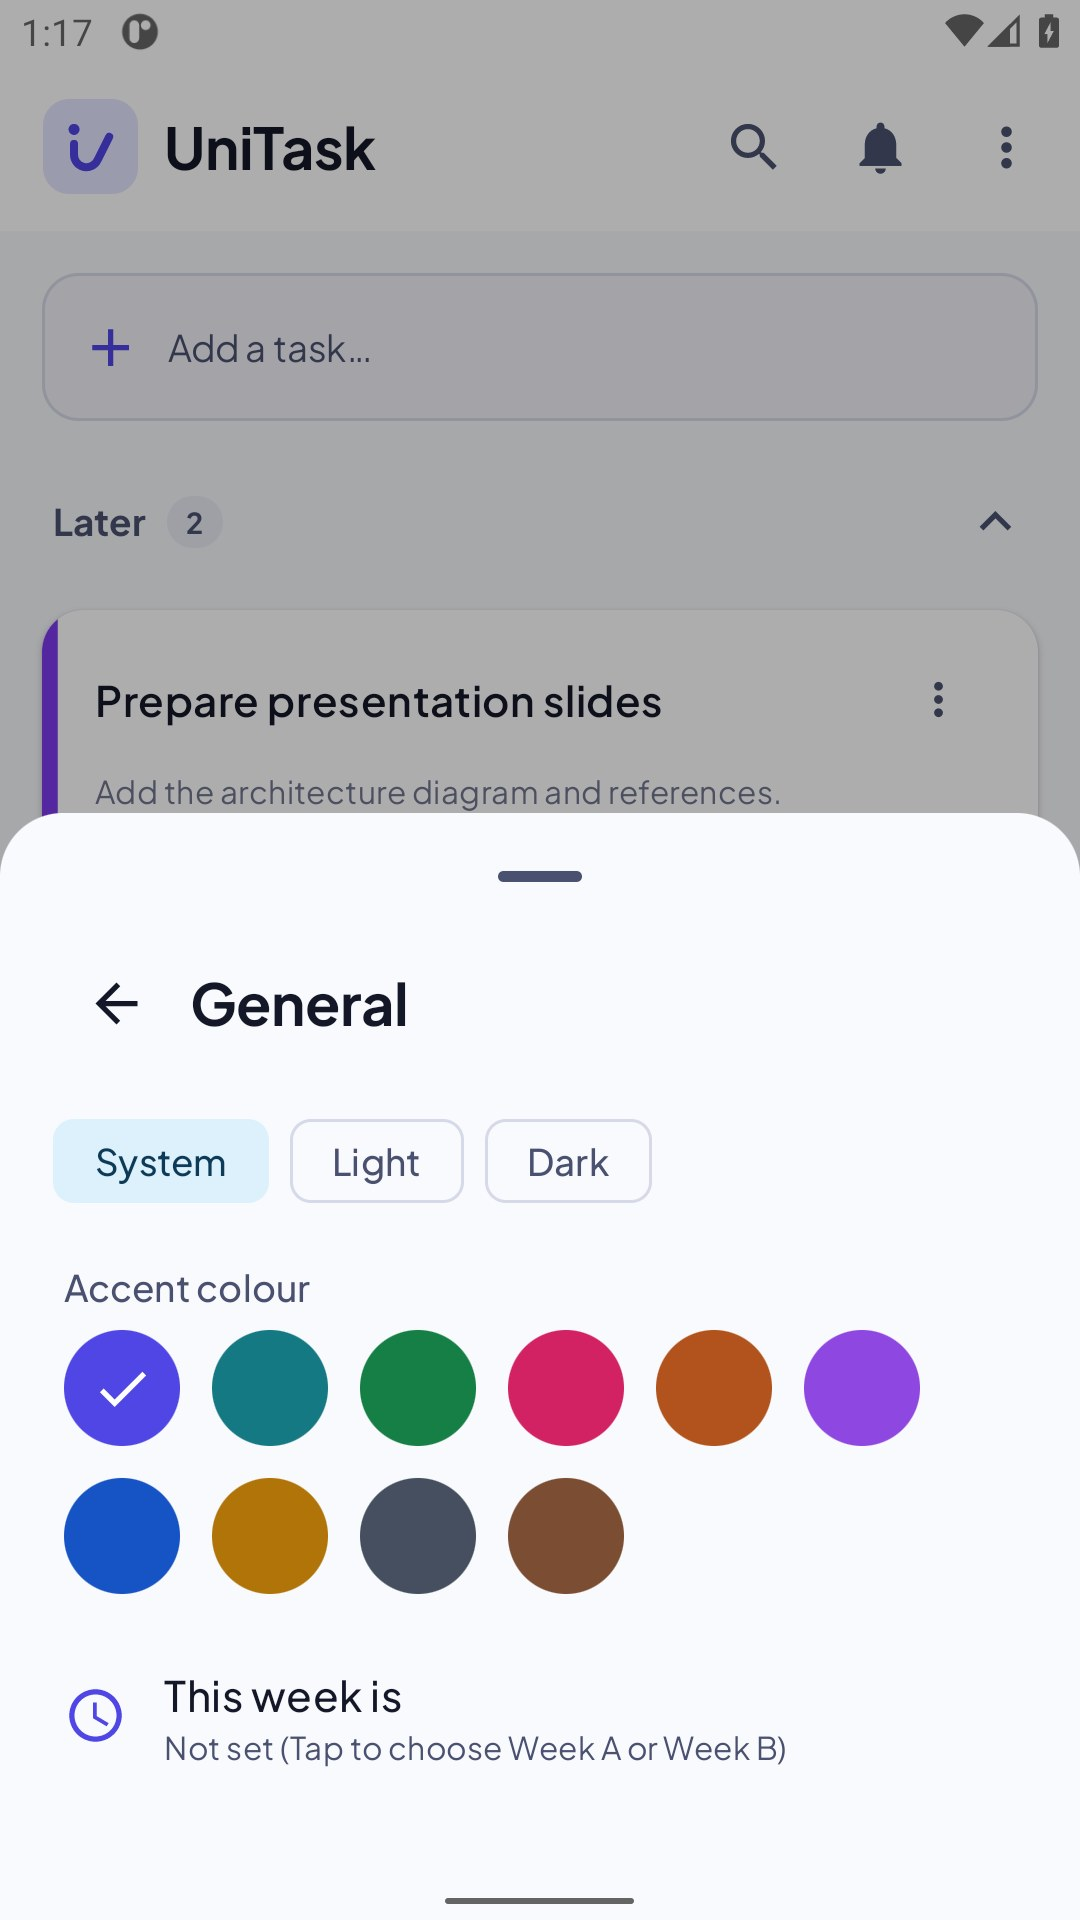
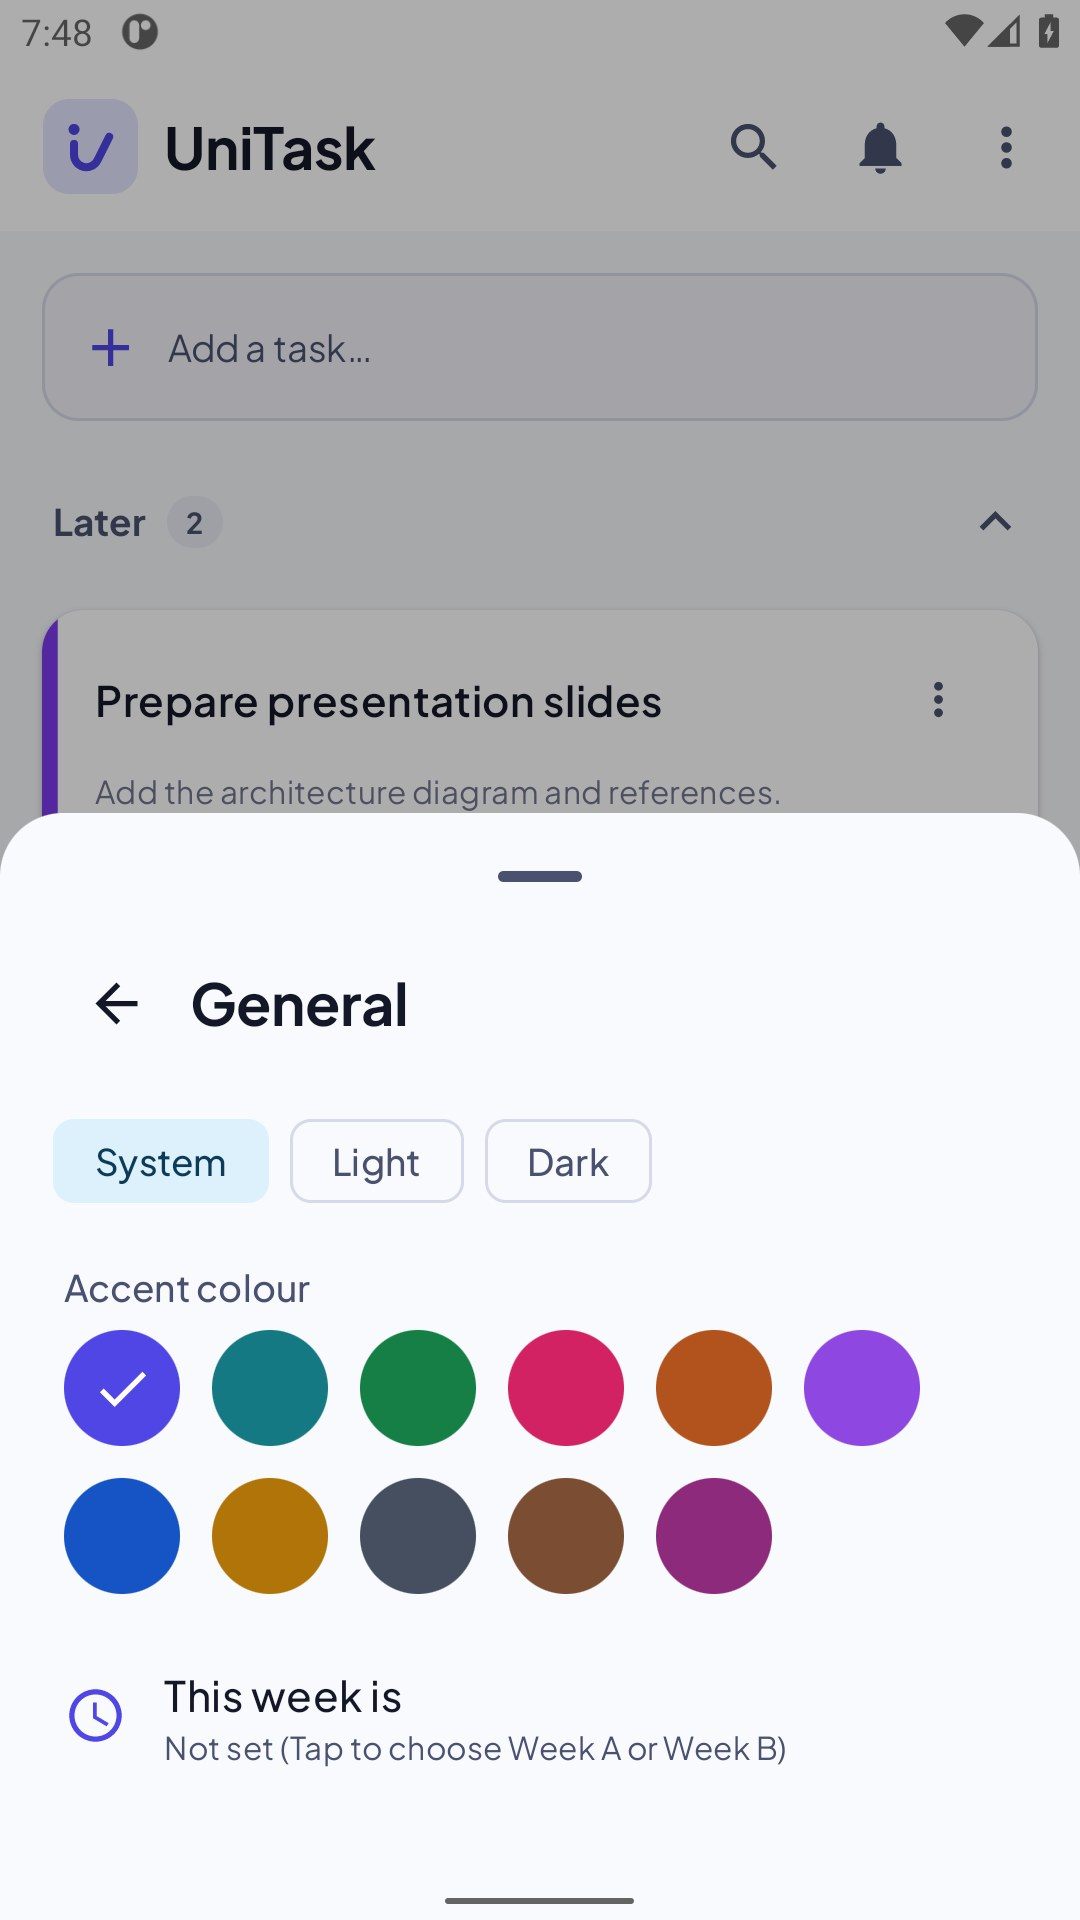
docs: refresh automated README screenshots

Changed region(s): [[0.6111, 0.75, 0.7333, 0.8438], [0.0306, 0.0, 0.0917, 0.0312]]

diff --git a/README.md b/README.md
@@ -139,16 +139,16 @@ Reminders, backup and account options, one section at a time.
 
 ### Themes
 
-UniTask follows the system theme or can be set to light or dark, with eleven accent colours chosen in Settings.
+UniTask follows the system theme or can be set to light or dark, with ten accent colours chosen in Settings.
 
 <table align="center">
   <tr>
     <td align="center" valign="top"><a href="docs/screenshots/theme_dark.jpg"><img src="docs/screenshots/theme_dark.jpg" width="220" alt="Dark theme" /></a><br/><sub><b>Dark theme</b><br/>Deadlines in dark mode</sub></td>
-    <td align="center" valign="top"><a href="docs/screenshots/theme_accent.jpg"><img src="docs/screenshots/theme_accent.jpg" width="220" alt="Accent colours" /></a><br/><sub><b>Accent colours</b><br/>Eleven accent colours, shown here in Rose</sub></td>
+    <td align="center" valign="top"><a href="docs/screenshots/theme_accent.jpg"><img src="docs/screenshots/theme_accent.jpg" width="220" alt="Accent colours" /></a><br/><sub><b>Accent colours</b><br/>Ten accent colours, shown here in Rose</sub></td>
   </tr>
 </table>
 
-<p align="center"><sub>Automatically captured from UniTask 4.7.0 using fictional demo data on an Android emulator.</sub></p>
+<p align="center"><sub>Automatically captured from UniTask 4.8.0 using fictional demo data on an Android emulator.</sub></p>
 
 Each screen is also available separately: [**Deadlines**](docs/screenshots/deadlines.jpg) · [**New assignment**](docs/screenshots/add_task.jpg) · [**My tasks**](docs/screenshots/my_tasks.jpg) · [**Timetable**](docs/screenshots/timetable.jpg) · [**Courses**](docs/screenshots/courses.jpg) · [**Course details**](docs/screenshots/course_detail.jpg) · [**More menu**](docs/screenshots/tools_menu.jpg) · [**Study timer**](docs/screenshots/timer.jpg) · [**Pomodoro**](docs/screenshots/timer_pomodoro.jpg) · [**Pomodoro options**](docs/screenshots/timer_options.jpg) · [**Progress**](docs/screenshots/progress.jpg) · [**Notes**](docs/screenshots/notes.jpg) · [**Note preview**](docs/screenshots/note_preview.jpg) · [**Note editor**](docs/screenshots/note_editor.jpg) · [**Study groups**](docs/screenshots/groups.jpg) · [**Global search**](docs/screenshots/global_search.jpg) · [**Recently deleted**](docs/screenshots/recently_deleted.jpg) · [**Settings**](docs/screenshots/settings_menu.jpg) · [**General settings**](docs/screenshots/settings_general.jpg) · [**Notifications**](docs/screenshots/settings_notifications.jpg) · [**Backup and data**](docs/screenshots/settings_backup.jpg) · [**About and help**](docs/screenshots/settings_about.jpg) · [**Dark theme**](docs/screenshots/theme_dark.jpg) · [**Accent colours**](docs/screenshots/theme_accent.jpg).
 
